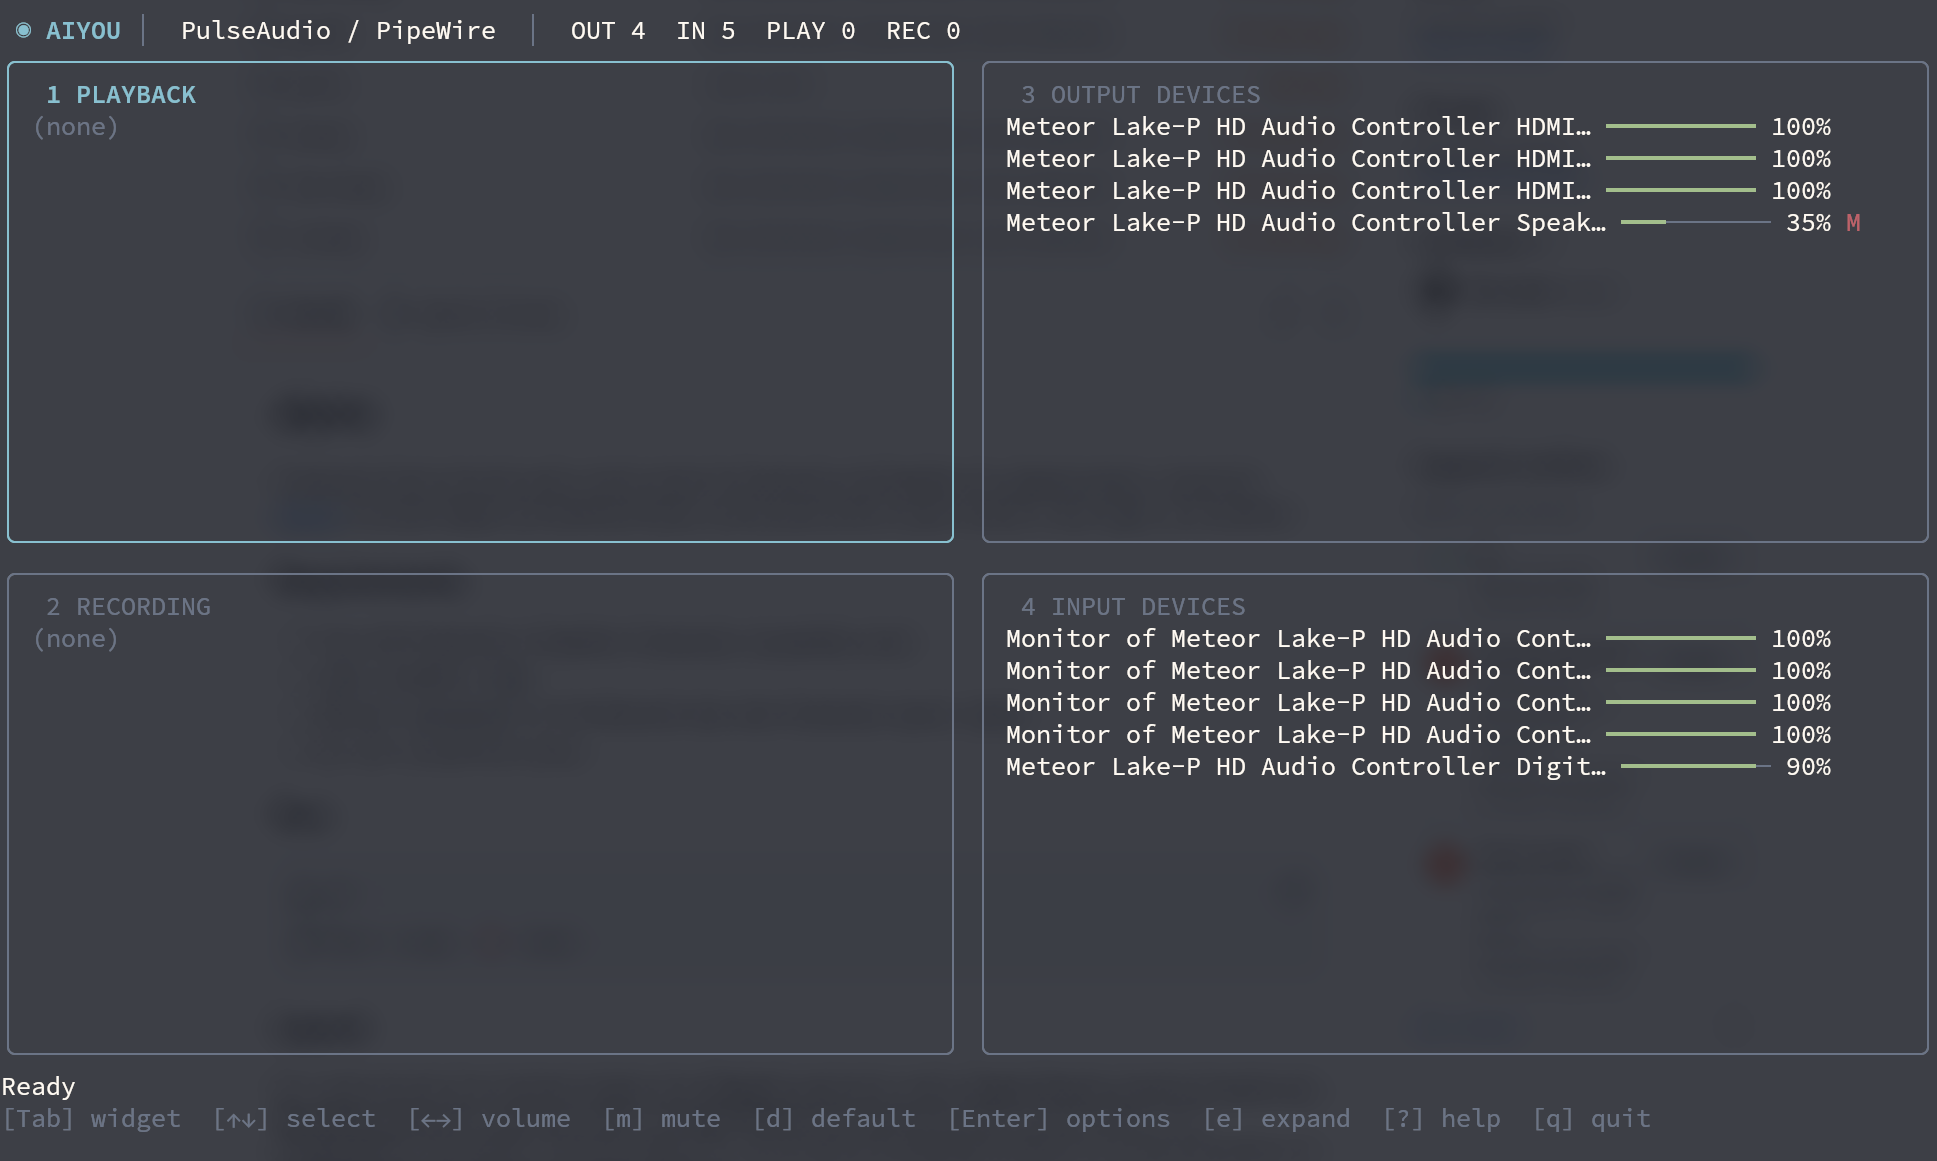
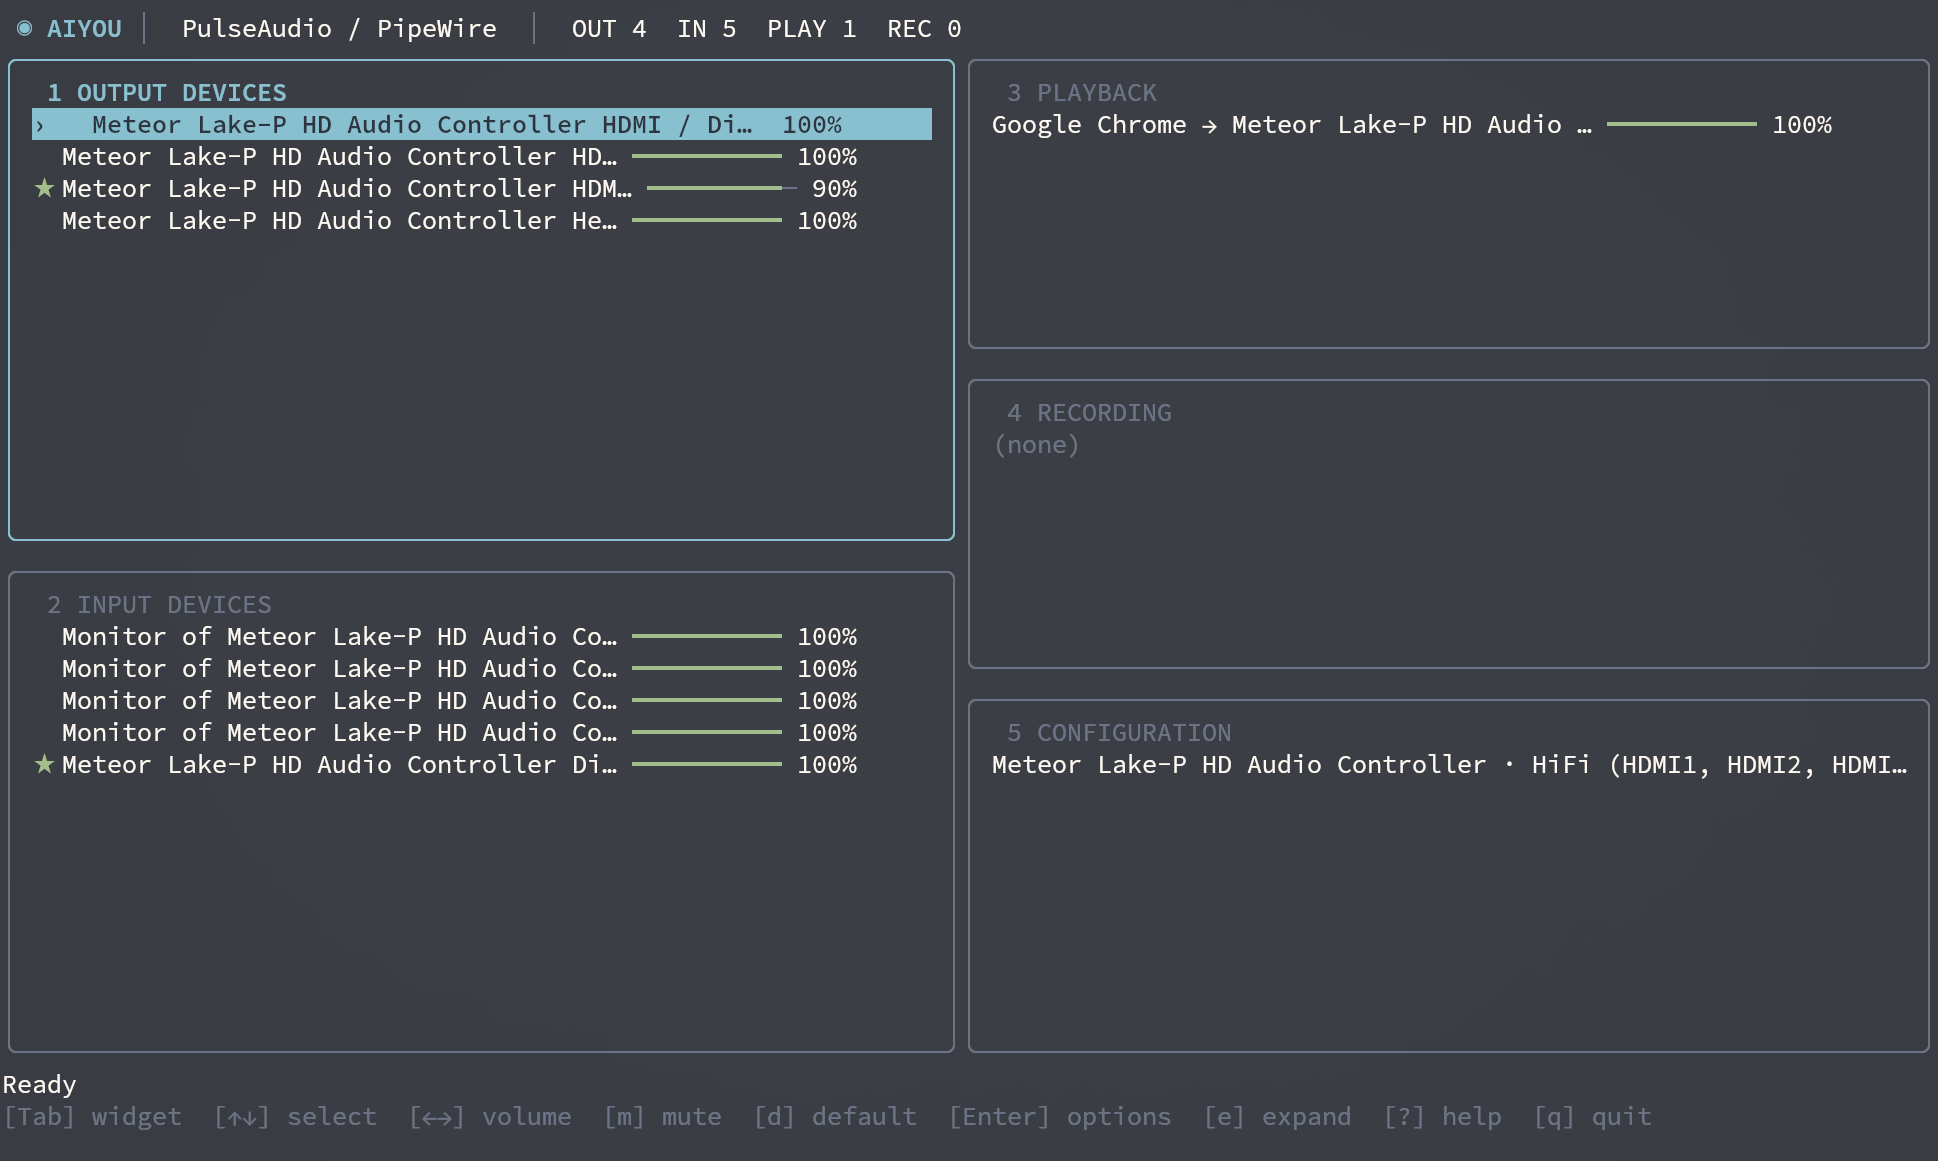
docs: update dashboard screenshot

diff --git a/README.md b/README.md
@@ -2,9 +2,7 @@
 
 A keyboard-driven terminal audio control center for PulseAudio and PipeWire (via `pipewire-pulse`). Inspired by [bottom](https://github.com/ClementTsang/bottom)'s focused widgets and dashboard layout, and by pavucontrol's audio controls. It uses `pactl` as its backend.
 
-![aiyou dashboard (earlier four-widget layout)](docs/assets/aiyou-dashboard.png)
-
-*Screenshot shows an earlier four-widget layout; the current dashboard also includes Configuration.*
+![aiyou five-widget audio dashboard with default output and input devices marked](docs/assets/aiyou-dashboard.png)
 
 ## Requirements
 
